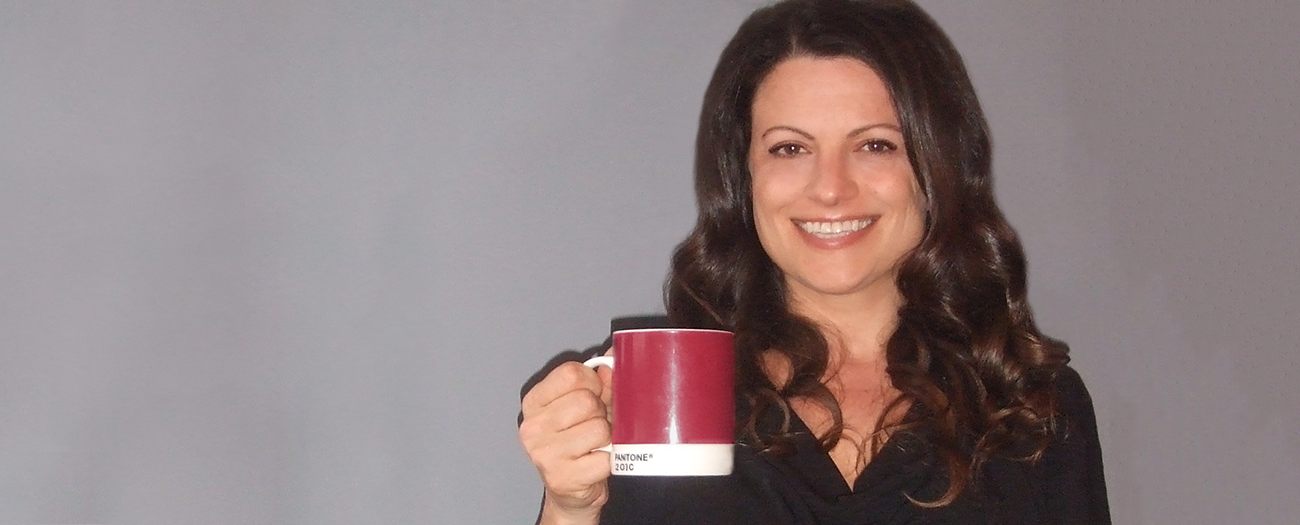
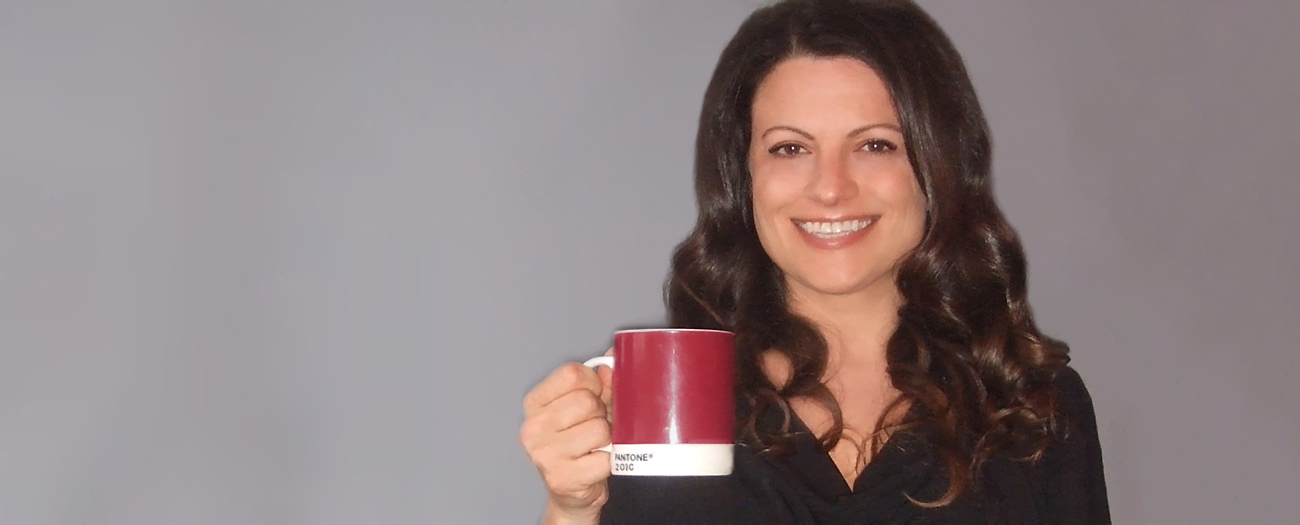
non-working form and cleaned up photo

Changed region(s): [[0.5846, 0.64, 0.7077, 0.8229], [0.4, 0.579, 0.5231, 0.8229], [0.4, 0.9448, 0.4308, 1.0]]

diff --git a/index.html b/index.html
@@ -267,7 +267,21 @@
           <div class="col-4 right-contact">
 
               <h4>Use this handy form:</h4>
-              <p>contact form goes here</p>
+              <div class="form">
+
+    <form action="/action_page.php">
+  
+    <input type="text" id="name" name="name" placeholder="Name" required tabindex="1">
+    <input type="text" id="company" name="company" placeholder="Company" tabindex="2">
+    <input type="email" id="email"  placeholder="Email" tabindex="3" required>
+    <input type="tel" id="tel" placeholder="Phone" tabindex="4" required>
+    <textarea rows="4" id="message" name="message" placeholder="What can I help you with?" tabindex="5" required></textarea>
+
+    <input type="submit" value="Submit">  
+    
+  </form>
+  
+</div>
 
           </div>
 

diff --git a/css/portfolio.css b/css/portfolio.css
@@ -221,6 +221,39 @@ header img {
 
 
 
+
+input, textarea {
+    width: 100%;
+    background: #c0bab5;
+    font-size: 12px;
+    line-height: 150%;
+    border: none;
+    padding: 5px;
+    margin-top: 5px;
+    margin-bottom: 5px;
+    resize: none;
+}
+
+
+input[type=submit] {
+    background-color: #a61e3a;
+    color: #ffffff;
+    font-size: 13px;
+    padding: 7px 0px;
+    width: 30%;
+    border: none;
+    margin: 10px 0px 20px 0px;
+    cursor: pointer;
+}
+
+input[type=submit]:hover {
+    background-color: #53413c;
+
+}
+
+
+
+
 /* FOOTER */
 
 footer		{

diff --git a/css/grids.css b/css/grids.css
@@ -37,6 +37,7 @@
 
 		.left-contact {
 				padding-left: 25%;
+				padding-right:0px;
 				padding-bottom: 20px;
 				}
 
@@ -96,7 +97,7 @@
 		.left-contact
 			{
 			padding-left: 15%;
-			padding-right: 15%;
+			padding-right: 5%;
 			padding-bottom: 20px;
 			}
 
